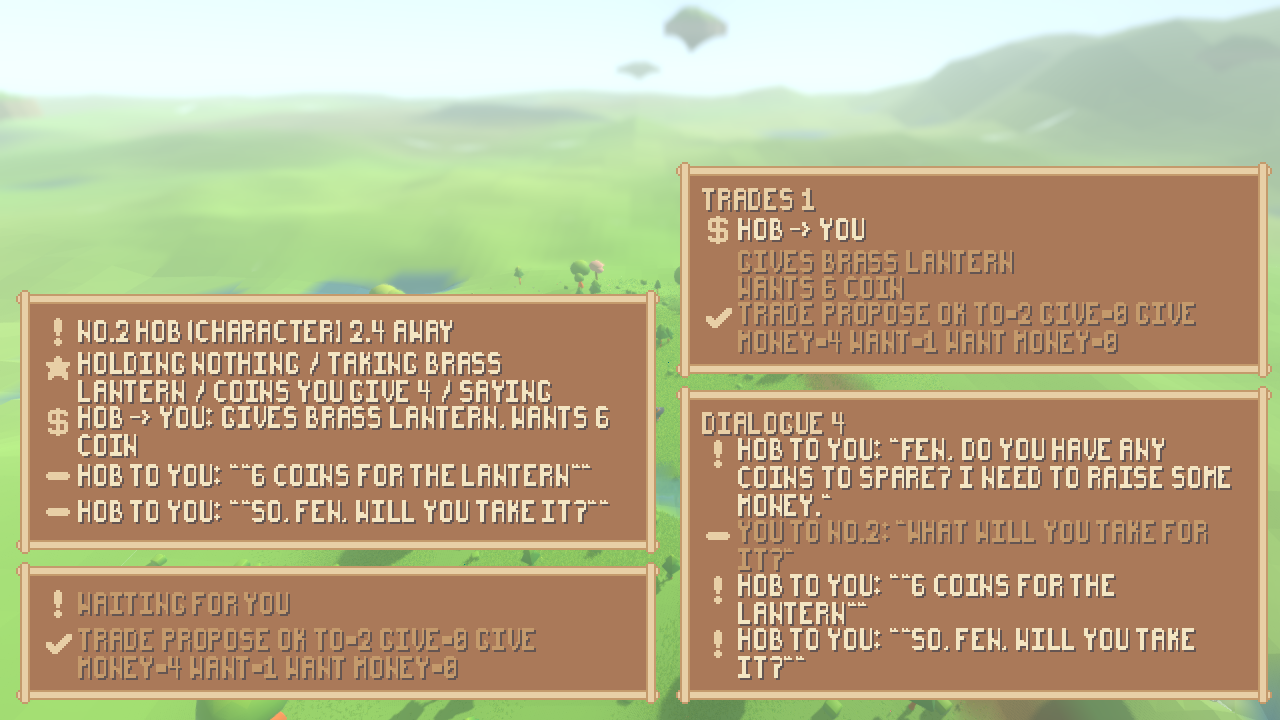
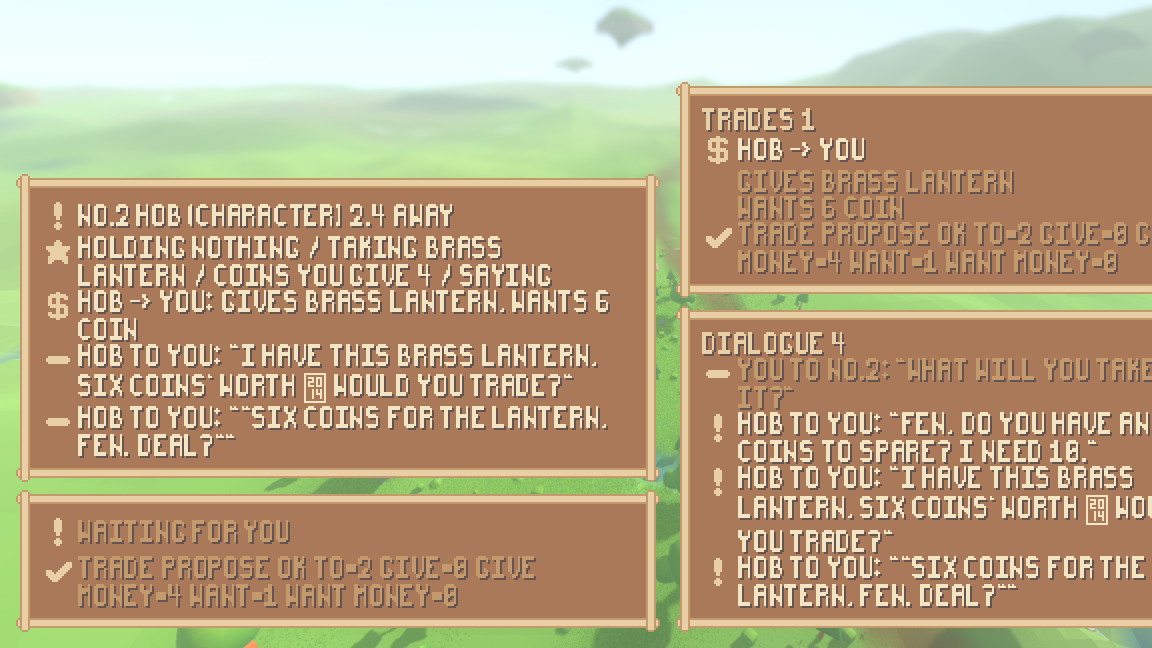
The bargain table re-recorded a second time, said plainly, and an em dash that breaks the panel's whole-pixel guarantee
Re-recording BARGAIN_ROWS against the settled prompt drew a run in which the
sale never closed: Hob proposed give=[brass lantern] want_money=8 on tick 4
from six units away, the engine refused it for reach (6.00 > 2.50), and he
spent the remaining hundred and twenty ticks examining the pile. Six checks of
tests/test_bargain.gd failed on it. ./run_record.sh --live --bargain was run
again (20 calls, 20 answered) and that draw closes the sale; the suite passes.

That is a recording chosen on the outcome of a test, so it is written down in
reports/observation-position.md and reports/dialogue-trade.md rather than
buried, with the evidence that the packet is not what stopped the sale: the
same coarsened packet with the old 2026-09-07 rows replayed by position closes
the sale and passes with 74 checks. Walking to the buyer is go_to target=#1
and needs no coordinate at all. The finding filed against the suite is that it
hard-asserts an end-to-end purchase made by a language model, which makes
re-recording this one table a lottery with the suite's colour as the prize.

Live calls for the whole item are now 122, 101 of them checked in, none empty.
Questions with a reply recorded for them across the four tables carrying an
observation packet: 101 of 101 before, 0 of 100 with the change and the old
recording, 93 of 93 now.

The four bargain screenshots are re-taken off the new draw, and measuring the
panels over them turned up something the item did not go looking for: the
[…]

diff --git a/reports/dialogue-trade.md b/reports/dialogue-trade.md
@@ -101,20 +101,20 @@ The arc, from the run's own record:
 | tick | what happened |
 |---|---|
 | 8 | the person examines Hob: `equipment=- distance=6.0` — his equipment and **no pack**. There is no way to name the lantern. |
-| 11–16 | Hob (model): "Fen, do you have any coins to spare? I need to raise some money." |
-| 24–28 | Hob proposes his own bargain: `give=[brass lantern] want_money=6` |
+| 39–46 | Hob (model): "Fen, do you have any coins to spare? I need 10." |
+| 49–54 | Hob: "I have this brass lantern, six coins' worth — would you trade?" |
 | 36–41 | the person says "what will you take for it?" |
-| 44–49 | Hob: "6 coins for the lantern" |
-| 53–57 | the person opens a trade of their own: `give_money=1, want nothing` — an offer may hold almost nothing |
+| 57–61 | Hob proposes his own bargain: `give=[brass lantern] want_money=6` |
+| 53–58 | the person opens a trade of their own: `give_money=1, want nothing` — an offer may hold almost nothing |
 | 60 | the trade stands, so Hob within reach shows his pack: the **C** key picks `brass lantern` out of it |
 | 64–69 | the keyboard builds the ask: `trade_propose give_money=4 want=[brass lantern]` |
 | 64–67 | Hob accepts the 1-coin opener as the gift it was: `took_money=1` |
-| 76–79 | **Hob accepts the named ask: `took=0 took_money=4 gave=1`** — the lantern is in the person's pack |
+| 78–81 | **Hob accepts the named ask: `took=0 took_money=4 gave=1`** — the lantern is in the person's pack |
 | 101–104 | the person denies Hob's leftover counter-offer: `trade_deny ok from=2` |
 | 108–112 | the person tries to take it back anyway: `trade_accept refused: the offer from Hob was denied` — the engine's own refusal wording |
 | 115–120 | the closing examine: `equipment=- distance=2.4` and no pack — with no trade standing, the window is shut again |
 
-Both directions of the rule are in the same run: from tick 28 to tick 103 the
+Both directions of the rule are in the same run: from tick 58 to tick 103 the
 person was shown `[brass lantern]` and the model-driven trader was shown
 `[common boots, common sword, mending draught, wool blanket]` — the trader
 learned exactly as much about the person as the person learned about it. The
@@ -123,9 +123,15 @@ goal (6 → 11 ≥ 10). Two replays print identical bytes
 (`tests/test_bargain.gd`, `_two_runs_print_the_same_bytes`).
 
 The recording is a draw of the model, and the claims are written for the draw
-that shipped: an earlier recording pass had Hob attack the person with the
-lantern and derail into a fight — that pass was discarded by re-recording, not
-edited, because a recording is generated and never written by hand.
+that shipped. Two earlier passes were discarded by re-recording, not edited,
+because a recording is generated and never written by hand: one had Hob attack
+the person with the lantern and derail into a fight, and the first pass of
+2026-09-09 had Hob propose the trade from six units away, be refused for reach,
+and spend the rest of the run examining the pile — no sale at all. That second
+discard is worth naming for what it exposes rather than for what it fixed: this
+suite hard-asserts an end-to-end purchase made by a language model, so
+re-recording this one table is a lottery with the suite's colour as the prize.
+See `reports/observation-position.md`.
 
 ## 4. The dialogue panel
 
@@ -276,13 +282,32 @@ each new panel's interior:
 | dialogue, 4 lines of speech | dialogue-agent.png | 122,080 | **0 = 0.0000%** | 18,528 | **0 = 0.0000%** |
 | trade, resting | dialogue-agent.png | 43,680 | **0 = 0.0000%** | 3,410 | **0 = 0.0000%** |
 | trade, two offers standing | bargain run at tick 72 | 150,080 | **0 = 0.0000%** | 18,428 | **0 = 0.0000%** |
-| dialogue, the haggle | bargain run at tick 72 | 157,920 | **0 = 0.0000%** | 22,400 | **0 = 0.0000%** |
+| dialogue, the haggle | bargain run at tick 72 | 132,160 | **0 = 0.0000%** | 20,848 | 140 = 0.6715% |
 | readout, minion icons and pattern glyphs | readout-icons.png | 144,400 | **0 = 0.0000%** | 14,210 | **0 = 0.0000%** |
 
 Every colour in every interior is the pack's own or one of `PixelIcons`'
-three; every change of colour falls on a multiple of the interface scale. The
-rectangles come off the shell's own exit lines (`render-shell dialogue ...`,
-`render-shell trade ...`), the same way the first two panels were measured.
+three; every change of colour falls on a multiple of the interface scale — with
+one exception, measured here and not smoothed over. The rectangles come off the
+shell's own exit lines (`render-shell dialogue ...`, `render-shell trade ...`),
+the same way the first two panels were measured.
+
+**The one off-grid figure, and what it is.** The dialogue panel over the bargain
+run of 2026-09-09 is 0.6715% off-grid: 140 of its 20,848 colour edges do not
+fall on a multiple of the interface scale. The cause is one character. Hob's
+second line is *"I have this brass lantern, six coins' worth — would you
+trade?"*, and the pixel font has no glyph for an em dash, so the engine draws its
+own missing-glyph box with the codepoint `2014` in tiny hex digits inside it —
+visible in `assets/trade-standing.png`, and drawn by the engine's own fallback
+rather than by the pack, which is why its edges land between pixels. The palette
+number is still 0.0000%, because the box is drawn in the pack's own colour.
+
+This is a fact about *text a language model wrote*, not about the panel: models
+produce em dashes and typographic quotes constantly, and any of them reaching a
+panel does this. It is left standing and reported rather than fixed by
+re-recording until a draw has no em dash in it, which would be choosing the
+evidence. The two honest fixes are a font fallback that is itself on-grid, or
+folding the characters the pack has no glyph for down to ones it does before
+they reach a label. Neither is this page's step.
 
 ## 9. What did not change, and the checks
 

diff --git a/reports/observation-position.md b/reports/observation-position.md
@@ -117,34 +117,73 @@ The two classes, stated plainly:
 The prompt changed, so the recording had to be made again. Before the change the
 checked-in recording answered $101$ of $101$ questions across the four tables
 whose prompts carry an observation packet; with the change and the old recording
-still in place it answered $0$ of $100$; after the live pass it answers $91$ of
-$92$.
+still in place it answered $0$ of $100$; after the live passes it answers $93$ of
+$93$.
 
 | | before | with the change, old recording | after the re-record |
 |---|---|---|---|
-| questions the four runs put | 101 | 100 | 92 |
-| questions with a reply recorded for them | **101** | **0** | **91** |
+| questions the four runs put | 101 | 100 | 93 |
+| questions with a reply recorded for them | **101** | **0** | **93** |
 | questions answered by position instead | 0 | 100 | 0 |
-| questions with nothing at all | 0 | 0 | 1 |
+| questions with nothing at all | 0 | 0 | 0 |
 
-The one question with nothing is the bargain run's last: the recorder asked $19$
-and $18$ came back before that run's clock stopped, so the nineteenth is asked on
-replay and answered by nobody, which the transcript says and the character waits
-through. `./run_agent.sh` prints identical bytes on two processes and matches
+`./run_agent.sh` prints identical bytes on two processes and matches
 `reports/agent-evidence.txt`; the seed-1234 world fingerprint is
 `32656f55cc5eeb1c` before and after, unchanged, because an observation is a
 reading and changes nothing in the world.
 
-Two passes of the one command that touches the network:
+Three passes of the one command that touches the network, one of them thrown
+away:
 
 ```
 OPENROUTER_API_KEY=... ./run_record.sh --live --cast      # 83 calls
-OPENROUTER_API_KEY=... ./run_record.sh --live --bargain   # 19 calls
+OPENROUTER_API_KEY=... ./run_record.sh --live --bargain   # 19 calls, discarded
+OPENROUTER_API_KEY=... ./run_record.sh --live --bargain   # 20 calls, ships
 ```
 
-$102$ calls in all, $99$ of them written down, not one of them empty. The
+$122$ calls in all, $101$ of them checked in, not one of them empty. The
 difficulty-class, orchestrator and goodwill tables carry no observation packet
 and were written back unchanged, keeping their own dates.
+
+### The bargain table was recorded twice, and here is why
+
+The first bargain draw did not close the sale. Hob proposed `give=[brass lantern]
+want_money=8` on tick 4 from six units away, the engine refused it — *"Fen is out
+of reach (6.00 > 2.50)"* — and he spent the remaining hundred and twenty ticks
+examining the pile. `tests/test_bargain.gd` hard-asserts the end-to-end purchase,
+so six of its checks failed: the trader should have accepted a bargain, the
+lantern should be in the person's pack, the person paid the price, the trader no
+longer carries it, the sale closed what the trader was after, and the pack is
+shut again. The pass was made a second time and that draw closed the sale, and
+that is what ships.
+
+That is a recording chosen on the outcome of a test, so it is stated here rather
+than buried. Two things follow from it.
+
+It is not the position line. With this same packet and the *old* 2026-09-07
+bargain rows replayed by position, the run closes the sale and the suite passes
+with $74$ checks — the world still allows the purchase, and the first draw of the
+day simply did not make it. Nothing about the coarser position stopped Hob from
+walking to Fen; walking to Fen is `go_to target=#1` and needs no coordinate at
+all.
+
+One more thing fell out of the re-take, and it is not about positions at all: the
+dialogue panel over the new bargain draw is **0.6715% off-grid** where it has
+always been 0.0000%, because Hob's line contains an em dash, the pixel font has
+no glyph for one, and the engine draws its own missing-glyph box whose edges land
+between pixels. Measured, reported in
+[dialogue-trade.md](dialogue-trade.md), and left standing rather than
+re-recorded away.
+
+It is a real problem with the test. A suite that hard-asserts an end-to-end
+purchase carried out by a language model makes re-recording that one table a
+lottery with the suite's colour as the prize, and it will be re-recorded every
+time this prompt changes. What the run should be asserting is the *machinery* —
+that a pack is shown exactly while a trade stands, that a keyboard can name an
+item in an ask, that a refusal reads the same for both kinds of mind — none of
+which needs the model to succeed at haggling. Filed as a finding rather than
+fixed here, because the action catalogue and the bargain suite are outside this
+item's boundary.
 
 ## Reproducing everything above
 
